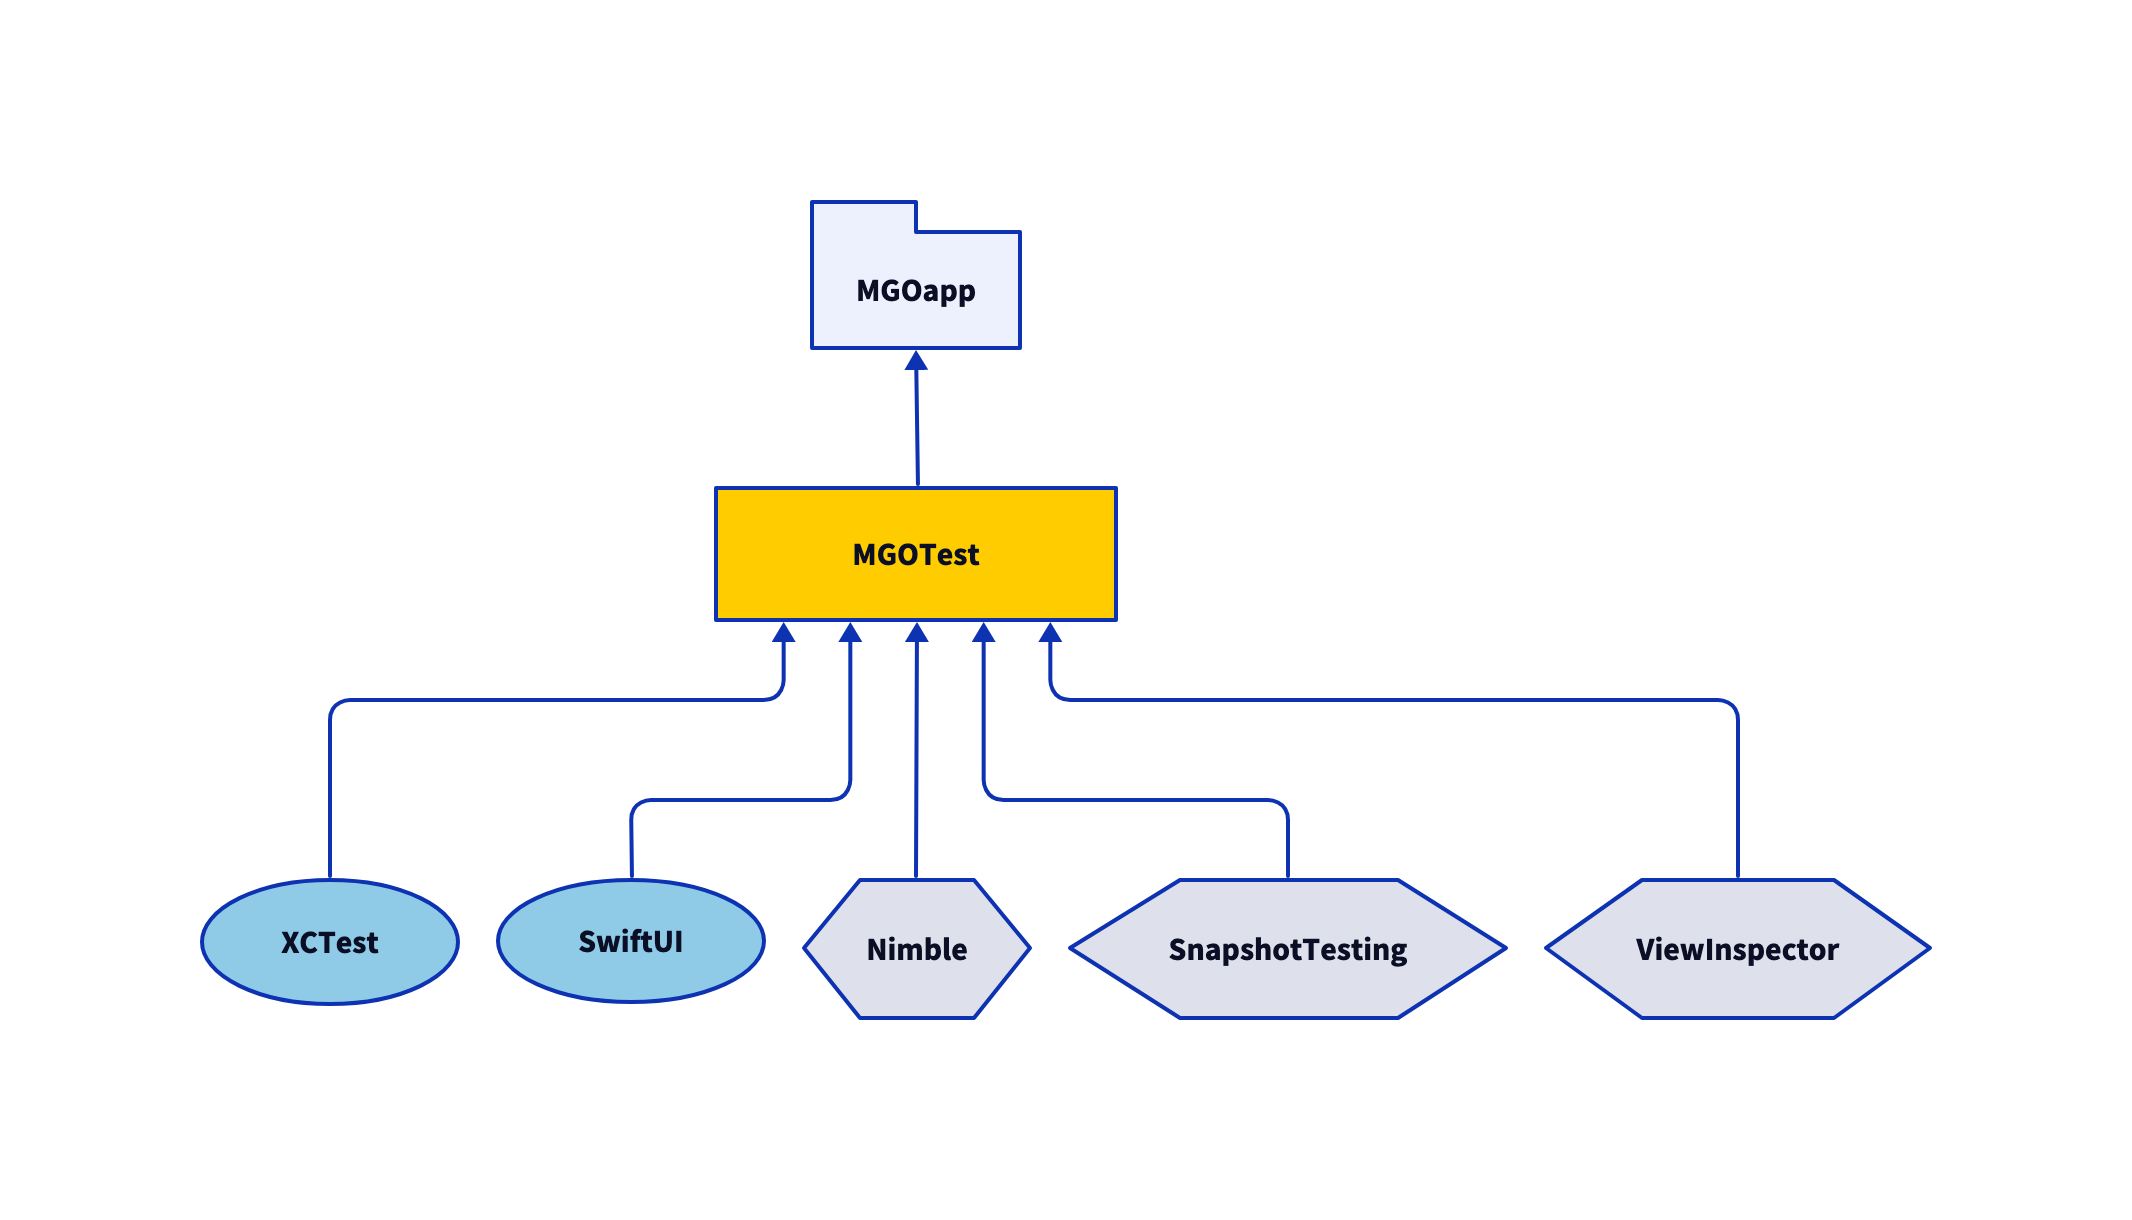
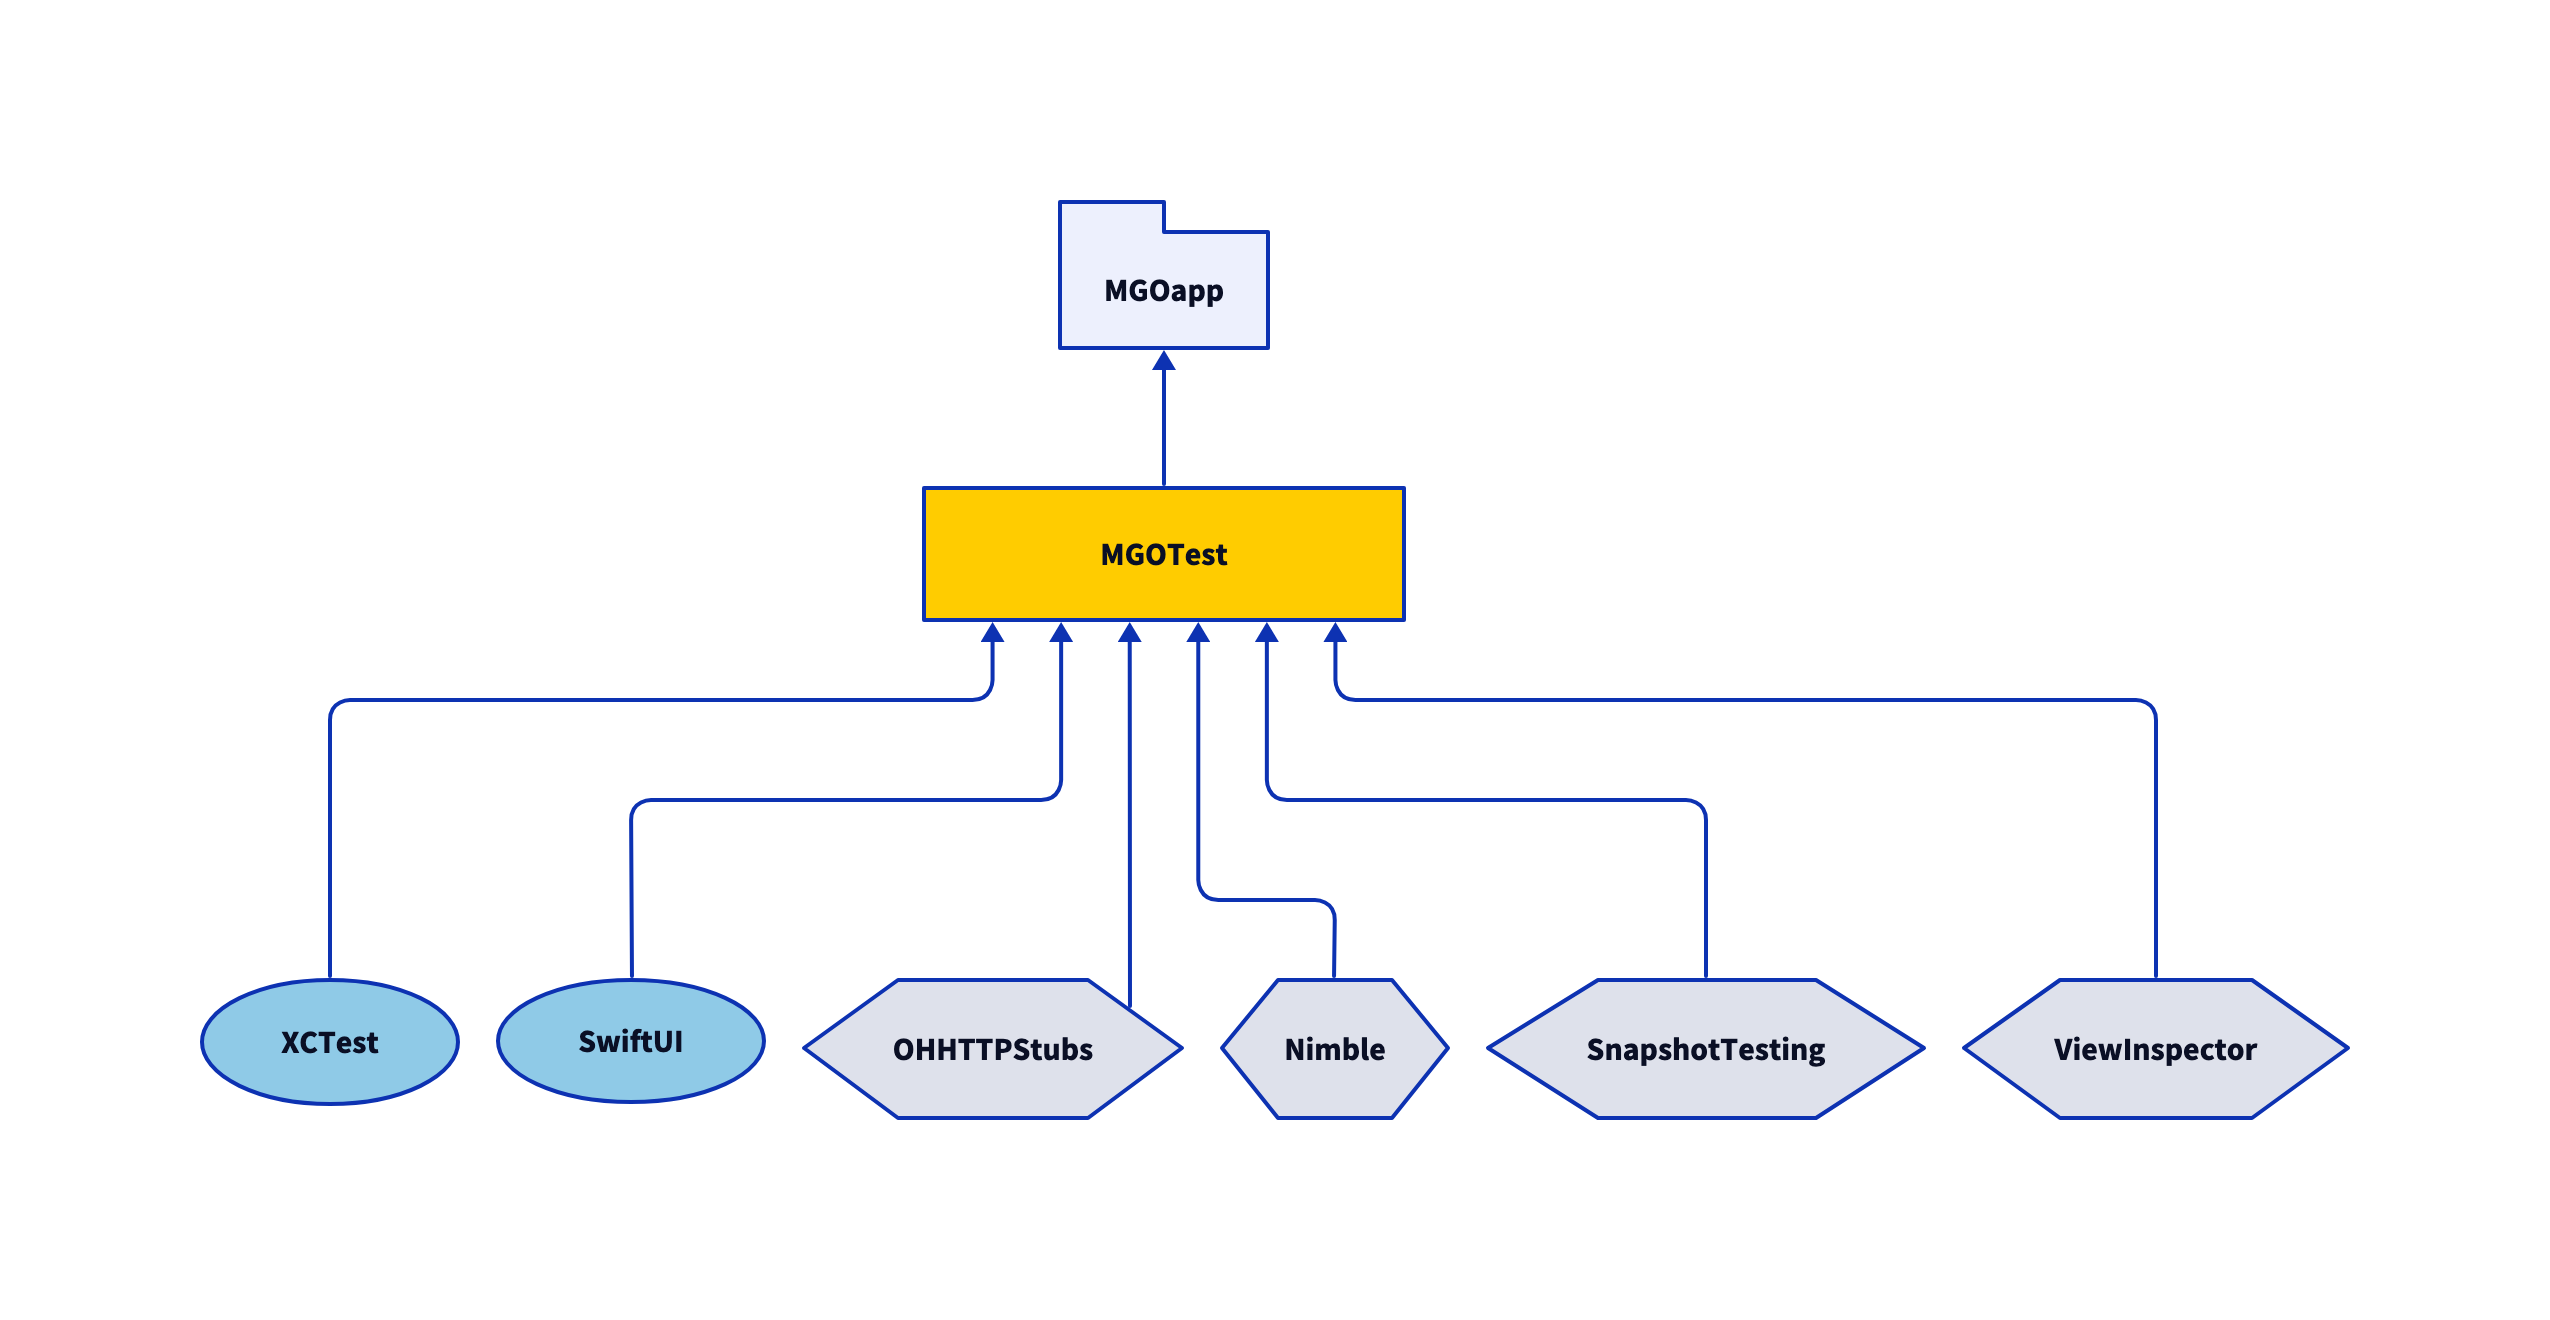
ci: Added http stubs package

diff --git a/Packages/MGOTest/Package.swift b/Packages/MGOTest/Package.swift
@@ -15,14 +15,16 @@ let package = Package(
 	dependencies: [
 		
 		// Testing:
+		.package(url: "https://github.com/AliSoftware/OHHTTPStubs", from: "9.1.0"),
 		.package(url: "https://github.com/pointfreeco/swift-snapshot-testing", exact: "1.16.0"),
 		.package(url: "https://github.com/Quick/Nimble", exact: "13.3.0"),
-		.package(url: "https://github.com/nalexn/ViewInspector", exact: "0.9.10")
+		.package(url: "https://github.com/nalexn/ViewInspector", exact: "0.9.11")
 	],
 	targets: [
 		.target(
 			name: "MGOTest",
 			dependencies: [
+				.product(name: "OHHTTPStubsSwift", package: "OHHTTPStubs"),
 				.product(name: "SnapshotTesting", package: "swift-snapshot-testing"),
 				.product(name: "Nimble", package: "Nimble"),
 				.product(name: "ViewInspector", package: "ViewInspector")

diff --git a/Packages/ReusableUI/Package.swift b/Packages/ReusableUI/Package.swift
@@ -20,7 +20,7 @@ let package = Package(
 		// Testing:
 		.package(url: "https://github.com/pointfreeco/swift-snapshot-testing", exact: "1.16.0"),
 		.package(url: "https://github.com/Quick/Nimble", exact: "13.3.0"),
-		.package(url: "https://github.com/nalexn/ViewInspector", exact: "0.9.10")
+		.package(url: "https://github.com/nalexn/ViewInspector", exact: "0.9.11")
 	],
 	targets: [
 		// Targets are the basic building blocks of a package, defining a module or a test suite.

diff --git a/Packages/RestrictedBrowser/Package.swift b/Packages/RestrictedBrowser/Package.swift
@@ -20,7 +20,7 @@ let package = Package(
 		// Test
 		.package(url: "https://github.com/pointfreeco/swift-snapshot-testing", exact: "1.16.0"),
 		.package(url: "https://github.com/Quick/Nimble", from: "13.3.0"),
-		.package(url: "https://github.com/nalexn/ViewInspector", exact: "0.9.10")
+		.package(url: "https://github.com/nalexn/ViewInspector", exact: "0.9.11")
 	],
 	targets: [
 		.target(

diff --git a/Packages/MGOTest/Sources/MGOTest/MGOTest.swift b/Packages/MGOTest/Sources/MGOTest/MGOTest.swift
@@ -9,6 +9,8 @@
 @_exported import XCTest
 
 // External
+@_exported import OHHTTPStubs
+@_exported import OHHTTPStubsSwift
 @_exported import Nimble
 @_exported import SnapshotTesting
 @_exported import ViewInspector

diff --git a/Packages/MGOTest/licenses/ohhttpstubs-license.md b/Packages/MGOTest/licenses/ohhttpstubs-license.md
@@ -1,0 +1,21 @@
+- MIT LICENSE -
+
+Copyright (c) 2012 Olivier Halligon
+
+Permission is hereby granted, free of charge, to any person obtaining a copy
+of this software and associated documentation files (the "Software"), to deal
+in the Software without restriction, including without limitation the rights
+to use, copy, modify, merge, publish, distribute, sublicense, and/or sell
+copies of the Software, and to permit persons to whom the Software is
+furnished to do so, subject to the following conditions:
+
+The above copyright notice and this permission notice shall be included in
+all copies or substantial portions of the Software.
+
+THE SOFTWARE IS PROVIDED "AS IS", WITHOUT WARRANTY OF ANY KIND, EXPRESS OR
+IMPLIED, INCLUDING BUT NOT LIMITED TO THE WARRANTIES OF MERCHANTABILITY,
+FITNESS FOR A PARTICULAR PURPOSE AND NONINFRINGEMENT. IN NO EVENT SHALL THE
+AUTHORS OR COPYRIGHT HOLDERS BE LIABLE FOR ANY CLAIM, DAMAGES OR OTHER
+LIABILITY, WHETHER IN AN ACTION OF CONTRACT, TORT OR OTHERWISE, ARISING FROM,
+OUT OF OR IN CONNECTION WITH THE SOFTWARE OR THE USE OR OTHER DEALINGS IN
+THE SOFTWARE.

diff --git a/Packages/RestrictedBrowser/licenses/swift-snapshot-testing-license.md b/Packages/RestrictedBrowser/licenses/swift-snapshot-testing-license.md
@@ -1,0 +1,21 @@
+MIT License
+
+Copyright (c) 2019 Point-Free, Inc.
+
+Permission is hereby granted, free of charge, to any person obtaining a copy
+of this software and associated documentation files (the "Software"), to deal
+in the Software without restriction, including without limitation the rights
+to use, copy, modify, merge, publish, distribute, sublicense, and/or sell
+copies of the Software, and to permit persons to whom the Software is
+furnished to do so, subject to the following conditions:
+
+The above copyright notice and this permission notice shall be included in all
+copies or substantial portions of the Software.
+
+THE SOFTWARE IS PROVIDED "AS IS", WITHOUT WARRANTY OF ANY KIND, EXPRESS OR
+IMPLIED, INCLUDING BUT NOT LIMITED TO THE WARRANTIES OF MERCHANTABILITY,
+FITNESS FOR A PARTICULAR PURPOSE AND NONINFRINGEMENT. IN NO EVENT SHALL THE
+AUTHORS OR COPYRIGHT HOLDERS BE LIABLE FOR ANY CLAIM, DAMAGES OR OTHER
+LIABILITY, WHETHER IN AN ACTION OF CONTRACT, TORT OR OTHERWISE, ARISING FROM,
+OUT OF OR IN CONNECTION WITH THE SOFTWARE OR THE USE OR OTHER DEALINGS IN THE
+SOFTWARE.

diff --git a/Packages/RestrictedBrowser/licenses/viewinspector-license.md b/Packages/RestrictedBrowser/licenses/viewinspector-license.md
@@ -1,0 +1,21 @@
+MIT License
+
+Copyright (c) 2019 Alexey
+
+Permission is hereby granted, free of charge, to any person obtaining a copy
+of this software and associated documentation files (the "Software"), to deal
+in the Software without restriction, including without limitation the rights
+to use, copy, modify, merge, publish, distribute, sublicense, and/or sell
+copies of the Software, and to permit persons to whom the Software is
+furnished to do so, subject to the following conditions:
+
+The above copyright notice and this permission notice shall be included in all
+copies or substantial portions of the Software.
+
+THE SOFTWARE IS PROVIDED "AS IS", WITHOUT WARRANTY OF ANY KIND, EXPRESS OR
+IMPLIED, INCLUDING BUT NOT LIMITED TO THE WARRANTIES OF MERCHANTABILITY,
+FITNESS FOR A PARTICULAR PURPOSE AND NONINFRINGEMENT. IN NO EVENT SHALL THE
+AUTHORS OR COPYRIGHT HOLDERS BE LIABLE FOR ANY CLAIM, DAMAGES OR OTHER
+LIABILITY, WHETHER IN AN ACTION OF CONTRACT, TORT OR OTHERWISE, ARISING FROM,
+OUT OF OR IN CONNECTION WITH THE SOFTWARE OR THE USE OR OTHER DEALINGS IN THE
+SOFTWARE.
